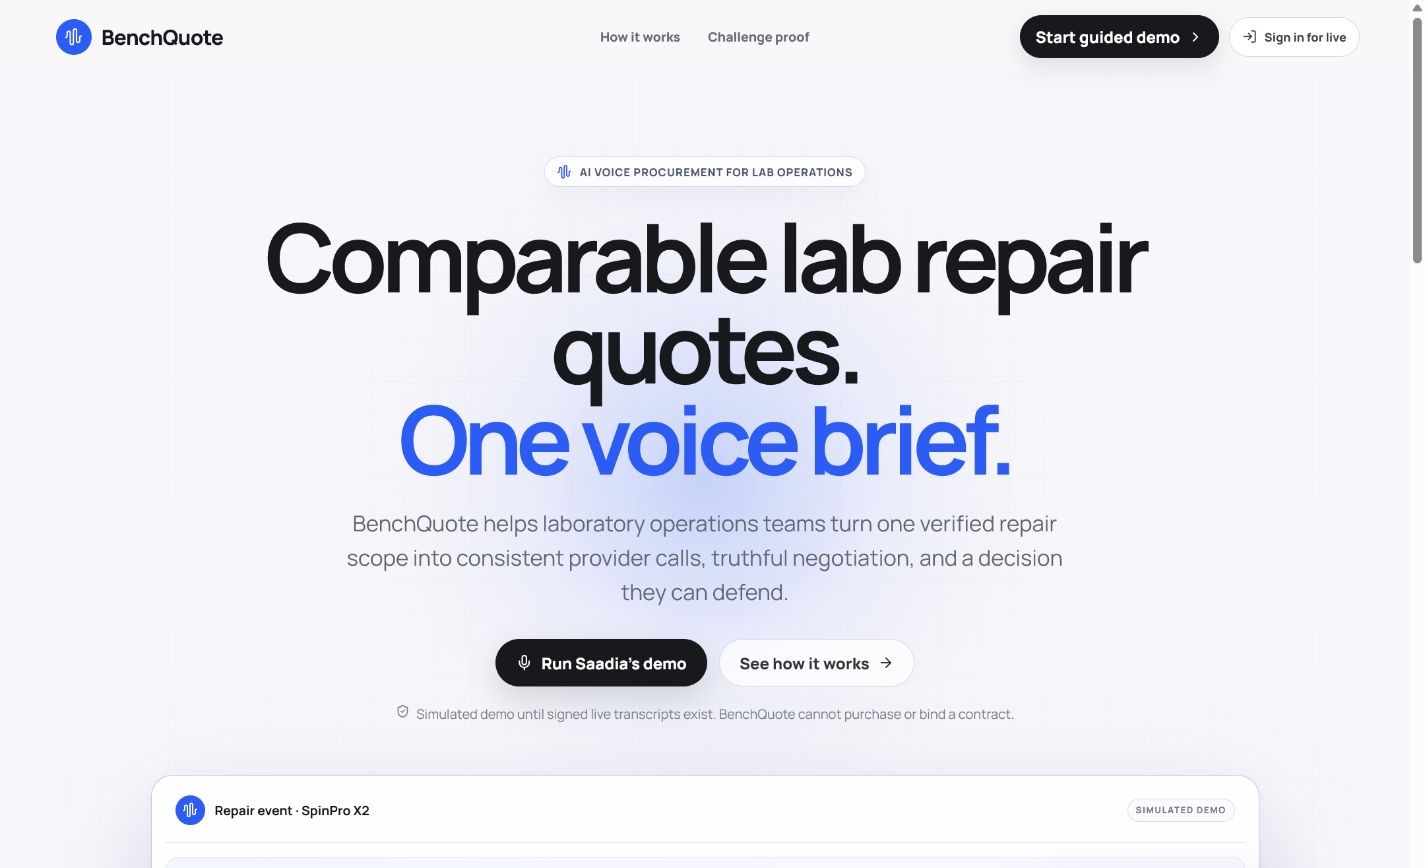
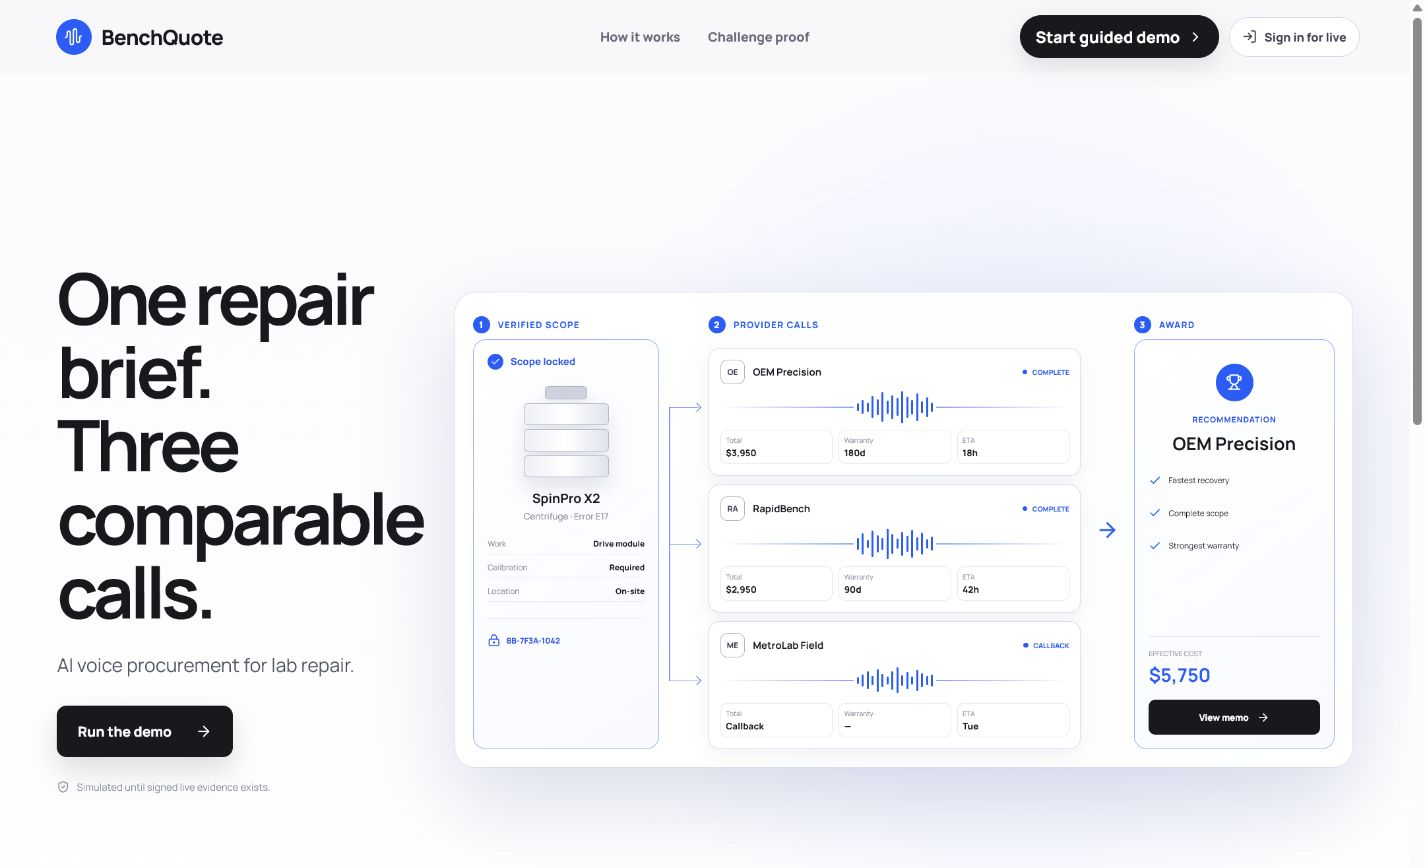
Make landing page visual-first

diff --git a/src/Home.tsx b/src/Home.tsx
@@ -1,122 +1,128 @@
 import {
   ArrowRight,
   AudioWaveform,
-  Bot,
   Check,
   CircleAlert,
   Clock3,
   FileCheck2,
   FileText,
   LockKeyhole,
-  MessageSquareText,
   Mic,
   Phone,
   ShieldCheck,
   Sparkles,
-  UserRound,
+  Trophy,
 } from "lucide-react";
 
 type WorkflowStep = "Scope" | "Call room" | "Deal room" | "Award memo";
 
-const workflow = [
-  { icon: Mic, number: "01", title: "Brief the repair once", text: "Combine a voice interview and service documents into one human-confirmed repair specification." },
-  { icon: Phone, number: "02", title: "Call on equal terms", text: "Each provider receives the identical locked scope, so travel, parts, calibration, timing, and warranty become comparable." },
-  { icon: MessageSquareText, number: "03", title: "Negotiate with receipts", text: "The closer can use only server-verified leverage. Every measurable change links back to the conversation that caused it." },
-  { icon: FileCheck2, number: "04", title: "Recommend, never purchase", text: "Cash, downtime, coverage, exclusions, and unknowns become a plain-language award memo for human approval." },
+const providers = [
+  { name: "OEM Precision", total: "$3,950", warranty: "180d", eta: "18h", bars: [8,14,9,22,16,30,13,24,18,34,21,15,28,12,20,9] },
+  { name: "RapidBench", total: "$2,950", warranty: "90d", eta: "42h", bars: [12,21,8,27,17,12,31,20,10,24,16,28,13,22,9,14] },
+  { name: "MetroLab Field", total: "Callback", warranty: "—", eta: "Tue", bars: [7,12,18,9,23,13,8,19,26,11,17,8,21,14,9,12] },
 ] as const;
 
-const challengeProof = [
-  ["Voice interview UI and document attachment", "UI READY · EXTRACTION PENDING", "pending"],
-  ["Canonical repair scope reused across calls", "CONTRACT TESTED · LIVE BINDING PENDING", "pending"],
-  ["Three distinct negotiation styles", "FIXTURES READY · LIVE EVIDENCE REQUIRED", "pending"],
-  ["Itemized quote, callback, or decline", "SCHEMA TESTED · AGENT TOOLS PENDING", "pending"],
-  ["Leverage-caused measurable concession", "FIXTURE PROOF · LIVE EVIDENCE REQUIRED", "pending"],
-  ["AI disclosure and no-bluff guardrails", "ACTIVE + TESTED", "complete"],
-  ["Ranked, evidence-linked recommendation", "DEMO READY · LIVE PIPELINE PENDING", "pending"],
+const proof = [
+  ["Scope", "UI ready", "pending"],
+  ["Call binding", "Pending", "pending"],
+  ["3 live styles", "Evidence due", "pending"],
+  ["Outcomes", "Schema tested", "pending"],
+  ["Causation", "Evidence due", "pending"],
+  ["Honesty", "Tested", "complete"],
+  ["Award", "Demo ready", "pending"],
 ] as const;
 
-const callRows = [
-  { name: "OEM Precision", detail: "Complete package", total: "$3,950", eta: "18h", warranty: "180d", state: "QUOTE" },
-  { name: "RapidBench", detail: "Travel fee uncovered", total: "$2,950", eta: "42h", warranty: "90d", state: "QUOTE" },
-  { name: "MetroLab Field", detail: "Specialist callback", total: "—", eta: "Tue", warranty: "—", state: "CALLBACK" },
+const flow = [
+  { icon: FileText, number: "01", label: "Brief" },
+  { icon: LockKeyhole, number: "02", label: "Lock" },
+  { icon: AudioWaveform, number: "03", label: "Call" },
+  { icon: Check, number: "04", label: "Decide" },
 ] as const;
 
 export function Home({ onOpen }: { onOpen: (step: WorkflowStep) => void }) {
-  return <main className="home-screen" id="home">
-    <section className="home-hero">
-      <div className="hero-grid" aria-hidden="true" />
-      <div className="home-copy">
-        <span className="hero-audience"><AudioWaveform size={15} /> AI voice procurement for lab operations</span>
-        <h1>Comparable lab repair quotes.<br /><em>One voice brief.</em></h1>
-        <p>BenchQuote helps laboratory operations teams turn one verified repair scope into consistent provider calls, truthful negotiation, and a decision they can defend.</p>
-        <div className="home-actions">
-          <button className="home-primary" onClick={() => onOpen("Scope")}><Mic size={17} /> Run Saadia&apos;s demo</button>
-          <a className="home-secondary" href="#how-it-works">See how it works <ArrowRight size={16} /></a>
-        </div>
-        <small><ShieldCheck size={14} /> Simulated demo until signed live transcripts exist. BenchQuote cannot purchase or bind a contract.</small>
+  return <main className="home-screen visual-home" id="home">
+    <section className="visual-hero">
+      <div className="visual-hero-copy">
+        <h1>One repair brief.<br />Three comparable calls.</h1>
+        <p>AI voice procurement for lab repair.</p>
+        <button className="visual-primary" onClick={() => onOpen("Scope")}>Run the demo <ArrowRight /></button>
+        <small><ShieldCheck /> Simulated until signed live evidence exists.</small>
       </div>
 
-      <div className="product-preview" aria-label="Simulated BenchQuote provider comparison preview">
-        <div className="preview-topline">
-          <div><span className="preview-logo"><AudioWaveform /></span><strong>Repair event · SpinPro X2</strong></div>
-          <span className="demo-chip">SIMULATED DEMO</span>
-        </div>
-        <div className="preview-scope">
-          <span><LockKeyhole /></span>
-          <div><small>SCOPE VERIFIED</small><strong>Drive module E17 · calibration required</strong></div>
-          <em>BB-7F3A-1042</em>
-        </div>
-        <div className="preview-table">
-          <div className="preview-table-head"><span>Provider call</span><span>Total</span><span>ETA</span><span>Warranty</span><span>Outcome</span></div>
-          {callRows.map((row, index) => <div className={index === 0 ? "preview-row selected" : "preview-row"} key={row.name}>
-            <span className="provider-cell"><i>{index + 1}</i><span><strong>{row.name}</strong><small>{row.detail}</small></span><AudioWaveform /></span>
-            <strong>{row.total}</strong><span>{row.eta}</span><span>{row.warranty}</span><em>{row.state}</em>
-          </div>)}
-        </div>
-        <div className="preview-award">
-          <span className="award-icon"><Sparkles /></span>
-          <div><small>RECOMMENDED AFTER DOWNTIME</small><strong>OEM Precision</strong><p>Complete scope · fastest recovery · strongest warranty</p></div>
-          <button onClick={() => onOpen("Award memo")}>View memo <ArrowRight size={15} /></button>
-        </div>
-        <div className="floating-call"><span className="live-dot" /><div><small>VOICE LANE 02</small><strong>Negotiating travel fee</strong></div><AudioWaveform /></div>
+      <div className="decision-canvas" aria-label="A locked lab repair scope flows into three provider calls and one award recommendation">
+        <section className="canvas-scope">
+          <header><span>1</span> VERIFIED SCOPE</header>
+          <div className="scope-visual-card">
+            <div className="scope-locked"><Check /> Scope locked</div>
+            <div className="instrument-visual" aria-hidden="true"><span /><span /><span /><span /></div>
+            <strong>SpinPro X2</strong>
+            <small>Centrifuge · Error E17</small>
+            <dl><div><dt>Work</dt><dd>Drive module</dd></div><div><dt>Calibration</dt><dd>Required</dd></div><div><dt>Location</dt><dd>On-site</dd></div></dl>
+            <div className="scope-id"><LockKeyhole /> BB-7F3A-1042</div>
+          </div>
+        </section>
+
+        <div className="canvas-connector" aria-hidden="true"><i /><i /><i /></div>
+
+        <section className="canvas-calls">
+          <header><span>2</span> PROVIDER CALLS</header>
+          {providers.map((provider, index) => <article key={provider.name}>
+            <div className="call-name"><i>{provider.name.slice(0, 2).toUpperCase()}</i><strong>{provider.name}</strong><em><span /> {index < 2 ? "COMPLETE" : "CALLBACK"}</em></div>
+            <div className="waveform" aria-hidden="true">{provider.bars.map((height, bar) => <i key={bar} style={{ height }} />)}</div>
+            <dl><div><dt>Total</dt><dd>{provider.total}</dd></div><div><dt>Warranty</dt><dd>{provider.warranty}</dd></div><div><dt>ETA</dt><dd>{provider.eta}</dd></div></dl>
+          </article>)}
+        </section>
+
+        <div className="canvas-arrow" aria-hidden="true"><ArrowRight /></div>
+
+        <section className="canvas-award">
+          <header><span>3</span> AWARD</header>
+          <div className="award-visual-card">
+            <span className="award-trophy"><Trophy /></span>
+            <small>RECOMMENDATION</small>
+            <h2>OEM Precision</h2>
+            <ul><li><Check /> Fastest recovery</li><li><Check /> Complete scope</li><li><Check /> Strongest warranty</li></ul>
+            <div><small>EFFECTIVE COST</small><strong>$5,750</strong></div>
+            <button onClick={() => onOpen("Award memo")}>View memo <ArrowRight /></button>
+          </div>
+        </section>
+      </div>
+    </section>
+
+    <section className="visual-journey" id="how-it-works">
+      <h2>From failure to award</h2>
+      <div className="journey-line">
+        {flow.map(({ icon: Icon, number, label }) => <div key={label}><b>{number}</b><span><Icon /></span><strong>{label}</strong></div>)}
+      </div>
+      <div className="case-strip" aria-label="Saadia's guided repair case">
+        <div className="case-person"><span>SA</span><strong>Saadia</strong></div>
+        <div><small>INSTRUMENT</small><strong>SpinPro X2</strong></div>
+        <ArrowRight />
+        <div><small>FAILURE</small><strong>Error E17</strong></div>
+        <ArrowRight />
+        <div><small>DOWNTIME</small><span className="downtime-bars"><i /><i /><i /><i /><i /></span></div>
+        <ArrowRight />
+        <div><small>OUTCOME</small><strong>Human award</strong></div>
+      </div>
+    </section>
+
+    <section className="visual-proof" id="challenge-proof">
+      <div className="proof-matrix">
+        <header><span>CHALLENGE PROOF</span><h2>Built honestly.</h2></header>
+        {proof.map(([label, status, state]) => <div key={label}><span>{state === "complete" ? <Check /> : <CircleAlert />}<strong>{label}</strong></span><i className={state} /><em>{status}</em></div>)}
       </div>
 
-      <div className="hero-outcomes" aria-label="BenchQuote outcomes">
-        <div><FileText /><span><strong>One scope</strong><small>Confirmed before calling</small></span></div>
-        <div><Phone /><span><strong>Three comparable calls</strong><small>Same requirements every time</small></span></div>
-        <div><ShieldCheck /><span><strong>One defensible decision</strong><small>Evidence stays attached</small></span></div>
+      <div className="evidence-orbit" aria-label="Evidence chain from scope to calls, concession and award">
+        <div className="orbit-ring" aria-hidden="true" />
+        <div className="orbit-center"><ShieldCheck /><strong>Evidence<br />chain</strong></div>
+        <div className="orbit-node orbit-scope"><FileCheck2 /><span>Scope</span></div>
+        <div className="orbit-node orbit-calls"><AudioWaveform /><span>Calls</span></div>
+        <div className="orbit-node orbit-award"><Trophy /><span>Award</span></div>
+        <div className="orbit-node orbit-proof"><Sparkles /><span>Concession</span></div>
       </div>
-    </section>
 
-    <section className="problem-split" aria-labelledby="problem-title">
-      <div><span className="split-number">01</span><div><h2 id="problem-title">Lab repair quotes are not really comparable.</h2><p>Travel, diagnostics, parts, calibration, warranty, and response time hide behind one headline price—usually scattered across phone calls and notes.</p></div></div>
-      <div><span className="split-number">02</span><div><h2>BenchQuote makes the assumptions visible.</h2><p>It holds the scope constant, preserves unknowns, and shows which call supports every price, concession, and recommendation.</p></div></div>
-    </section>
-
-    <section className="home-section" id="how-it-works">
-      <div className="home-section-heading"><span>THE CONNECTED WORKFLOW</span><h2>From broken instrument to reviewable award.</h2><p>Not four polished fragments: the same confirmed scope, call records, commercial terms, and transcript evidence move through the whole product.</p></div>
-      <div className="workflow-rail">{workflow.map(({ icon: Icon, number, title, text }) => <article key={number}><div><b>{number}</b><Icon /></div><h3>{title}</h3><p>{text}</p></article>)}</div>
-    </section>
-
-    <section className="demo-band">
-      <div className="demo-person"><span className="demo-avatar">SA</span><div><span>GUIDED DEMO USER</span><h2>Saadia Asghar</h2><p>Lab Operations Lead · City Labs</p></div></div>
-      <dl><div><dt>Equipment</dt><dd>SpinPro X2 centrifuge</dd></div><div><dt>Failure</dt><dd>Error E17 / drive module</dd></div><div><dt>Decision pressure</dt><dd>Every hour affects experiments</dd></div><div><dt>Required outcome</dt><dd>Comparable offers + calibration proof</dd></div></dl>
-      <div className="demo-next"><p>Lock one repair brief, inspect three consented demo lanes, verify a concession, and review the ranked award memo.</p><button className="home-primary" onClick={() => onOpen("Deal room")}>Resume the case <ArrowRight size={17} /></button><small>SIMULATED FIXTURES · NOT LIVE CALL EVIDENCE</small></div>
-    </section>
-
-    <section className="home-two-column" id="challenge-proof">
-      <div className="proof-ledger"><div className="home-section-heading"><span>HONEST CHALLENGE PROOF</span><h2>Seven gates. Status shown as it is.</h2></div><ol>{challengeProof.map(([label, status, state], index) => <li key={label}><b>{String(index + 1).padStart(2, "0")}</b><span>{label}</span><strong className={state}>{state === "complete" ? <Check /> : <CircleAlert />}{status}</strong></li>)}</ol></div>
-      <aside className="agent-readiness">
-        <div className="home-section-heading"><span>WHY IT IS MORE THAN A WRAPPER</span><h2>Voice changes the decision state.</h2></div>
-        <div className="agent-list"><div><Bot /><span><strong>Bounded agents</strong><small>Estimator, buyer, and provider personas</small></span><em>PROMPTS TESTED</em></div><div><LockKeyhole /><span><strong>Honesty firewall</strong><small>No invented bids or hidden authority</small></span><em>GUARDRAILS ACTIVE</em></div><div><Clock3 /><span><strong>Downtime economics</strong><small>Ranks recovery cost, not sticker price</small></span><em>DOMAIN LOGIC TESTED</em></div></div>
-        <p><ShieldCheck /> Commercial numbers, terminal outcomes, and leverage are validated outside the language model. Human approval remains the final boundary.</p>
-      </aside>
-    </section>
-
-    <section className="home-final">
-      <div><Sparkles /><h2>Stop comparing prices.<br />Compare recoveries.</h2><p>Built for laboratory managers, research operations, and procurement reviewers under downtime pressure.</p></div>
-      <button className="home-primary" onClick={() => onOpen("Scope")}>Build the repair brief <ArrowRight size={17} /></button>
-      <span><UserRound size={15} /> BenchQuote recommends. A human reviews and decides.</span>
+      <button className="proof-cta" onClick={() => onOpen("Scope")}><Mic /> Build the repair brief <ArrowRight /></button>
+      <p><ShieldCheck /> BenchQuote recommends. A human decides.</p>
     </section>
   </main>;
 }

diff --git a/src/styles.css b/src/styles.css
@@ -658,3 +658,158 @@ blockquote p, .call-replay p { color: #555a66; }
   .preview-award { grid-template-columns: 1fr; }
   .preview-award button { grid-column: 1; }
 }
+
+/* BenchQuote visual-first landing page */
+.visual-home { overflow: hidden; background: #fff; }
+.visual-hero { min-height: calc(100vh - 74px); display: grid; grid-template-columns: minmax(260px, .55fr) minmax(780px, 1.45fr); gap: clamp(28px, 4vw, 68px); align-items: center; padding: 54px clamp(24px, 4vw, 64px) 58px; background: radial-gradient(circle at 72% 48%, rgba(71,103,244,.13), transparent 40%), linear-gradient(180deg, #fbfbfe, #fff); }
+.visual-hero-copy h1 { max-width: 520px; margin: 0; font-size: clamp(48px, 5vw, 76px); line-height: 1.03; letter-spacing: -.06em; }
+.visual-hero-copy > p { margin: 25px 0 28px; color: #4e5360; font-size: 19px; }
+.visual-primary { min-height: 52px; display: inline-flex; align-items: center; gap: 24px; border: 0; border-radius: 10px; padding: 0 21px; color: #fff; background: #18191d; box-shadow: 0 14px 30px rgba(24,25,29,.15); font-size: 14px; font-weight: 850; }
+.visual-primary:hover { background: #2c5cf3; }
+.visual-primary svg { width: 17px; }
+.visual-hero-copy > small { display: flex; align-items: center; gap: 7px; margin-top: 18px; color: #8a8f9c; font-size: 10px; }
+.visual-hero-copy > small svg { width: 13px; }
+
+.decision-canvas { min-width: 0; display: grid; grid-template-columns: minmax(170px, .67fr) 30px minmax(330px, 1.34fr) 34px minmax(180px, .72fr); gap: 10px; align-items: stretch; border: 1px solid #d9ddea; border-radius: 21px; padding: 18px; background: rgba(255,255,255,.92); box-shadow: 0 34px 90px rgba(49,67,128,.17); }
+.decision-canvas section > header { min-height: 29px; display: flex; align-items: center; gap: 8px; color: #2c5cf3; font-size: 9px; font-weight: 900; letter-spacing: .09em; }
+.decision-canvas section > header span { color: #fff; width: 17px; height: 17px; display: grid; place-items: center; border-radius: 50%; background: #2c5cf3; }
+.scope-visual-card, .award-visual-card { height: calc(100% - 29px); border: 1px solid #8da8ff; border-radius: 13px; padding: 14px; background: linear-gradient(145deg, #fff, #f8faff); }
+.scope-locked { display: flex; align-items: center; gap: 7px; color: #3157e6; font-size: 10px; font-weight: 850; }
+.scope-locked svg { width: 16px; height: 16px; padding: 3px; border-radius: 50%; color: #fff; background: #2c5cf3; }
+.instrument-visual { width: 86px; height: 92px; display: grid; grid-template-rows: 13px 1fr 1fr 1fr; gap: 4px; margin: 17px auto 12px; filter: drop-shadow(0 10px 10px rgba(63,72,104,.15)); }
+.instrument-visual span { display: block; border: 1px solid #aeb5c8; border-radius: 4px; background: linear-gradient(90deg, #eef0f5, #fff 50%, #dfe3ed); }
+.instrument-visual span:first-child { width: 50%; justify-self: center; background: #cdd2de; }
+.scope-visual-card > strong, .scope-visual-card > small { display: block; text-align: center; }
+.scope-visual-card > strong { font-size: 13px; }
+.scope-visual-card > small { margin-top: 3px; color: #7d8290; font-size: 9px; }
+.scope-visual-card dl { display: grid; gap: 7px; margin: 16px 0; }
+.scope-visual-card dl div { display: flex; justify-content: space-between; gap: 8px; border-bottom: 1px solid #e6e8ef; padding-bottom: 5px; font-size: 8px; }
+.scope-visual-card dt { color: #858a97; }
+.scope-visual-card dd { margin: 0; font-weight: 800; }
+.scope-id { display: flex; align-items: center; gap: 6px; border-top: 1px solid #dfe2ec; padding-top: 10px; color: #3157e6; font-size: 8px; font-weight: 850; }
+.scope-id svg { width: 13px; }
+
+.canvas-connector { position: relative; display: grid; grid-template-rows: repeat(3, 1fr); align-items: center; margin-top: 29px; }
+.canvas-connector::before { content: ""; position: absolute; left: 0; top: 16.5%; bottom: 16.5%; width: 1px; background: #7d9afa; }
+.canvas-connector i { position: relative; height: 1px; background: #7d9afa; }
+.canvas-connector i::after { content: ""; position: absolute; right: -1px; top: -3px; width: 6px; height: 6px; border-top: 1px solid #2c5cf3; border-right: 1px solid #2c5cf3; transform: rotate(45deg); }
+.canvas-calls { display: grid; grid-template-rows: 29px repeat(3, 1fr); gap: 9px; }
+.canvas-calls article { min-width: 0; display: grid; grid-template-rows: auto 32px auto; gap: 7px; border: 1px solid #d5d9e6; border-radius: 11px; padding: 11px; background: #fff; box-shadow: 0 6px 18px rgba(44,55,102,.06); }
+.call-name { min-width: 0; display: flex; align-items: center; gap: 8px; }
+.call-name > i { width: 25px; height: 25px; flex: 0 0 auto; display: grid; place-items: center; border: 1px solid #aeb5c8; border-radius: 7px; color: #3c4354; font-size: 8px; font-style: normal; font-weight: 900; }
+.call-name strong { overflow: hidden; font-size: 10px; text-overflow: ellipsis; white-space: nowrap; }
+.call-name em { display: flex; align-items: center; gap: 5px; margin-left: auto; color: #2c5cf3; font-size: 7px; font-style: normal; font-weight: 900; }
+.call-name em span { width: 5px; height: 5px; border-radius: 50%; background: #2c5cf3; }
+.waveform { height: 32px; display: flex; align-items: center; gap: 3px; overflow: hidden; }
+.waveform::before, .waveform::after { content: ""; flex: 1; height: 1px; background: linear-gradient(90deg, transparent, #8ba3fa); }
+.waveform::after { background: linear-gradient(90deg, #8ba3fa, transparent); }
+.waveform i { width: 2px; flex: 0 0 auto; border-radius: 2px; background: #2c5cf3; }
+.canvas-calls article dl { display: grid; grid-template-columns: repeat(3, 1fr); gap: 6px; margin: 0; }
+.canvas-calls article dl div { display: grid; gap: 2px; border: 1px solid #e5e7ed; border-radius: 7px; padding: 5px; }
+.canvas-calls dt { color: #858a97; font-size: 7px; }
+.canvas-calls dd { margin: 0; font-size: 9px; font-weight: 850; }
+.canvas-arrow { display: grid; place-items: center; color: #2c5cf3; }
+.canvas-arrow svg { width: 26px; }
+.award-visual-card { display: flex; flex-direction: column; align-items: center; text-align: center; }
+.award-trophy { width: 38px; height: 38px; display: grid; place-items: center; margin: 10px 0 13px; border-radius: 50%; color: #fff; background: #2c5cf3; }
+.award-trophy svg { width: 17px; }
+.award-visual-card > small { color: #3157e6; font-size: 8px; font-weight: 900; letter-spacing: .08em; }
+.award-visual-card h2 { margin: 6px 0 13px; font-size: 18px; }
+.award-visual-card ul { width: 100%; display: grid; gap: 9px; margin: 0; padding: 0; list-style: none; text-align: left; }
+.award-visual-card li { display: flex; align-items: center; gap: 7px; font-size: 8px; }
+.award-visual-card li svg { width: 13px; color: #2c5cf3; }
+.award-visual-card > div { width: 100%; display: grid; gap: 4px; margin: auto 0 12px; border-top: 1px solid #dfe2ec; padding-top: 12px; text-align: left; }
+.award-visual-card > div small { color: #858a97; font-size: 7px; }
+.award-visual-card > div strong { color: #2c5cf3; font-size: 19px; }
+.award-visual-card button { width: 100%; min-height: 35px; display: flex; align-items: center; justify-content: center; gap: 8px; border: 0; border-radius: 7px; color: #fff; background: #18191d; font-size: 9px; font-weight: 850; }
+.award-visual-card button svg { width: 13px; }
+
+.visual-journey { padding: 90px clamp(24px, 6vw, 96px); background: #fbfbfe; border-top: 1px solid #e4e6ee; }
+.visual-journey > h2 { margin: 0 0 52px; text-align: center; font-size: clamp(42px, 5vw, 70px); letter-spacing: -.055em; }
+.journey-line { position: relative; display: grid; grid-template-columns: repeat(4, 1fr); }
+.journey-line::before { content: ""; position: absolute; top: 58px; left: 8%; right: 8%; height: 3px; background: linear-gradient(90deg, #2c5cf3, #6f56e8 45%, #2c5cf3); }
+.journey-line > div { position: relative; display: grid; justify-items: center; gap: 9px; }
+.journey-line b { position: absolute; top: -10px; left: 17%; color: #deddf8; font-size: clamp(38px, 5vw, 72px); }
+.journey-line span { z-index: 1; width: 108px; height: 108px; display: grid; place-items: center; border: 2px solid #cdd5f6; border-radius: 50%; color: #2c5cf3; background: #fff; box-shadow: 0 15px 30px rgba(63,78,143,.09); }
+.journey-line span svg { width: 38px; height: 38px; }
+.journey-line strong { font-size: 20px; }
+.case-strip { display: grid; grid-template-columns: 1.15fr 1fr auto 1fr auto 1fr auto 1fr; gap: 22px; align-items: center; margin-top: 58px; border: 1px solid #d8ddf3; border-radius: 17px; padding: 24px; background: linear-gradient(90deg, #f4f5ff, #faf9ff); }
+.case-strip > svg { color: #b4b8c9; }
+.case-strip > div { display: grid; gap: 4px; }
+.case-strip small { color: #6f63d9; font-size: 8px; font-weight: 900; letter-spacing: .11em; }
+.case-strip strong { font-size: 13px; }
+.case-person { grid-template-columns: auto 1fr; align-items: center; }
+.case-person > span { width: 42px; height: 42px; grid-row: 1 / 3; display: grid; place-items: center; border-radius: 50%; color: #fff; background: #2c5cf3; font-weight: 900; }
+.downtime-bars { display: flex; gap: 3px; }
+.downtime-bars i { width: 15px; height: 9px; border-radius: 3px; background: #5a52de; }
+.downtime-bars i:last-child { opacity: .2; }
+
+.visual-proof { position: relative; min-height: 680px; display: grid; grid-template-columns: 1fr 1fr; grid-template-rows: 1fr auto auto; gap: 20px 70px; align-items: center; padding: 76px clamp(24px, 6vw, 96px) 48px; color: #f5f6fb; background: radial-gradient(circle at 75% 46%, rgba(44,92,243,.2), transparent 35%), #11131a; }
+.proof-matrix header span { color: #8da8ff; font-size: 9px; font-weight: 900; letter-spacing: .14em; }
+.proof-matrix header h2 { margin: 8px 0 25px; color: #fff; font-size: 45px; letter-spacing: -.05em; }
+.proof-matrix > div { min-height: 52px; display: grid; grid-template-columns: 140px 1fr 94px; gap: 18px; align-items: center; border-bottom: 1px solid #2a2d37; }
+.proof-matrix > div > span { display: flex; align-items: center; gap: 9px; }
+.proof-matrix > div svg { width: 15px; color: #829cff; }
+.proof-matrix > div i { position: relative; height: 2px; background: repeating-linear-gradient(90deg, #f0b04f 0 9px, transparent 9px 14px); }
+.proof-matrix > div i::after { content: ""; position: absolute; right: 0; top: -5px; width: 10px; height: 10px; border: 2px solid #f0b04f; border-radius: 50%; }
+.proof-matrix > div i.complete { background: #2c5cf3; }
+.proof-matrix > div i.complete::after { border-color: #2c5cf3; background: #2c5cf3; }
+.proof-matrix > div em { color: #b6bac6; font-size: 9px; font-style: normal; text-align: right; }
+.evidence-orbit { position: relative; width: min(100%, 480px); aspect-ratio: 1; justify-self: center; }
+.orbit-ring { position: absolute; inset: 22%; border: 2px solid #2c5cf3; border-radius: 50%; box-shadow: 0 0 60px rgba(44,92,243,.24), inset 0 0 45px rgba(44,92,243,.09); }
+.orbit-ring::before, .orbit-ring::after { content: ""; position: absolute; inset: -25%; border: 1px dashed rgba(82,116,255,.22); border-radius: 50%; }
+.orbit-ring::after { inset: -48%; opacity: .5; }
+.orbit-center { position: absolute; inset: 36%; z-index: 2; display: grid; place-items: center; align-content: center; gap: 8px; border: 1px solid #566fe1; border-radius: 50%; background: #151927; box-shadow: 0 0 55px rgba(44,92,243,.28); text-align: center; }
+.orbit-center svg { color: #8ca2ff; }
+.orbit-center strong { font-size: 19px; line-height: 1.05; }
+.orbit-node { position: absolute; z-index: 3; display: grid; justify-items: center; gap: 6px; color: #c7ceff; font-size: 10px; font-weight: 850; }
+.orbit-node svg { width: 51px; height: 51px; border: 2px solid #6482ff; border-radius: 50%; padding: 14px; background: #171b29; box-shadow: 0 0 25px rgba(44,92,243,.25); }
+.orbit-scope { top: 1%; left: 50%; transform: translateX(-50%); }
+.orbit-calls { top: 50%; right: 1%; transform: translateY(-50%); }
+.orbit-award { top: 50%; left: 1%; transform: translateY(-50%); }
+.orbit-proof { bottom: 1%; left: 50%; transform: translateX(-50%); }
+.proof-cta { grid-column: 1 / -1; justify-self: center; min-width: 310px; min-height: 52px; display: inline-flex; align-items: center; justify-content: center; gap: 12px; border: 1px solid #6081ff; border-radius: 9px; color: #fff; background: #2c5cf3; box-shadow: 0 14px 34px rgba(44,92,243,.28); font-weight: 850; }
+.proof-cta svg { width: 17px; }
+.visual-proof > p { grid-column: 1 / -1; display: flex; align-items: center; justify-content: center; gap: 7px; margin: 0; color: #8e93a2; font-size: 10px; }
+.visual-proof > p svg { width: 13px; }
+
+@media (max-width: 1180px) {
+  .visual-hero { grid-template-columns: 1fr; }
+  .visual-hero-copy { text-align: center; }
+  .visual-hero-copy h1 { margin-inline: auto; }
+  .visual-hero-copy > small { justify-content: center; }
+  .decision-canvas { width: min(100%, 980px); justify-self: center; }
+}
+@media (max-width: 820px) {
+  .decision-canvas { grid-template-columns: 1fr; }
+  .canvas-connector, .canvas-arrow { height: 24px; margin: 0; }
+  .canvas-connector { display: none; }
+  .canvas-arrow svg { transform: rotate(90deg); }
+  .canvas-calls { grid-template-rows: 29px repeat(3, auto); }
+  .scope-visual-card { height: auto; }
+  .instrument-visual { height: 65px; }
+  .journey-line span { width: 82px; height: 82px; }
+  .journey-line::before { top: 45px; }
+  .case-strip { grid-template-columns: 1fr 1fr; }
+  .case-strip > svg { display: none; }
+  .visual-proof { grid-template-columns: 1fr; }
+  .proof-cta, .visual-proof > p { grid-column: 1; }
+}
+@media (max-width: 560px) {
+  .visual-hero { padding: 46px 18px; }
+  .visual-hero-copy h1 { font-size: 47px; }
+  .decision-canvas { padding: 12px; }
+  .canvas-calls article { grid-template-rows: auto 28px auto; }
+  .visual-journey { padding: 70px 18px; }
+  .visual-journey > h2 { margin-bottom: 38px; font-size: 43px; }
+  .journey-line { grid-template-columns: repeat(2, 1fr); gap: 32px 12px; }
+  .journey-line::before { display: none; }
+  .journey-line b { left: 12%; }
+  .case-strip { grid-template-columns: 1fr; }
+  .visual-proof { padding: 60px 18px 40px; }
+  .proof-matrix > div { grid-template-columns: 100px 1fr 70px; gap: 10px; }
+  .evidence-orbit { width: 340px; max-width: 100%; }
+  .orbit-node svg { width: 43px; height: 43px; padding: 12px; }
+  .orbit-center strong { font-size: 14px; }
+  .proof-cta { min-width: 0; width: 100%; }
+}